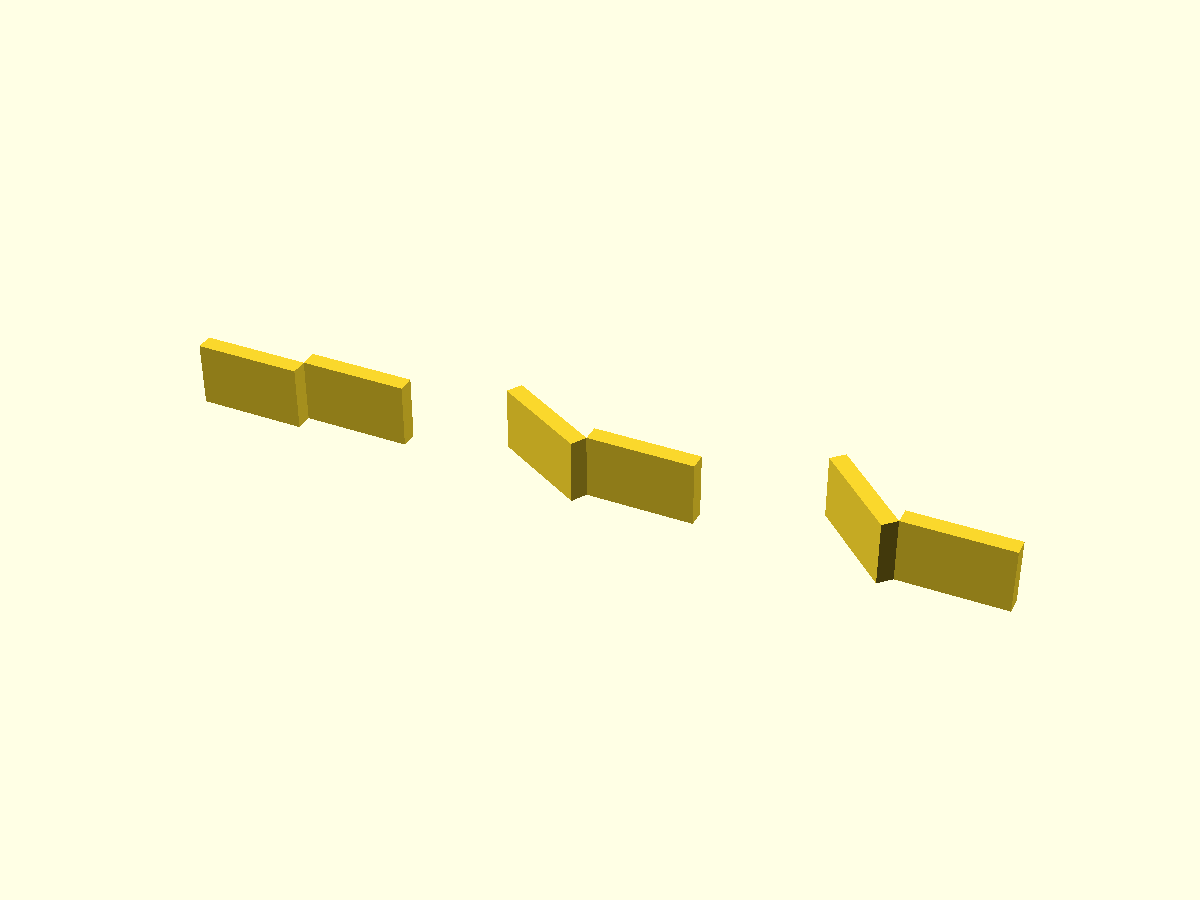
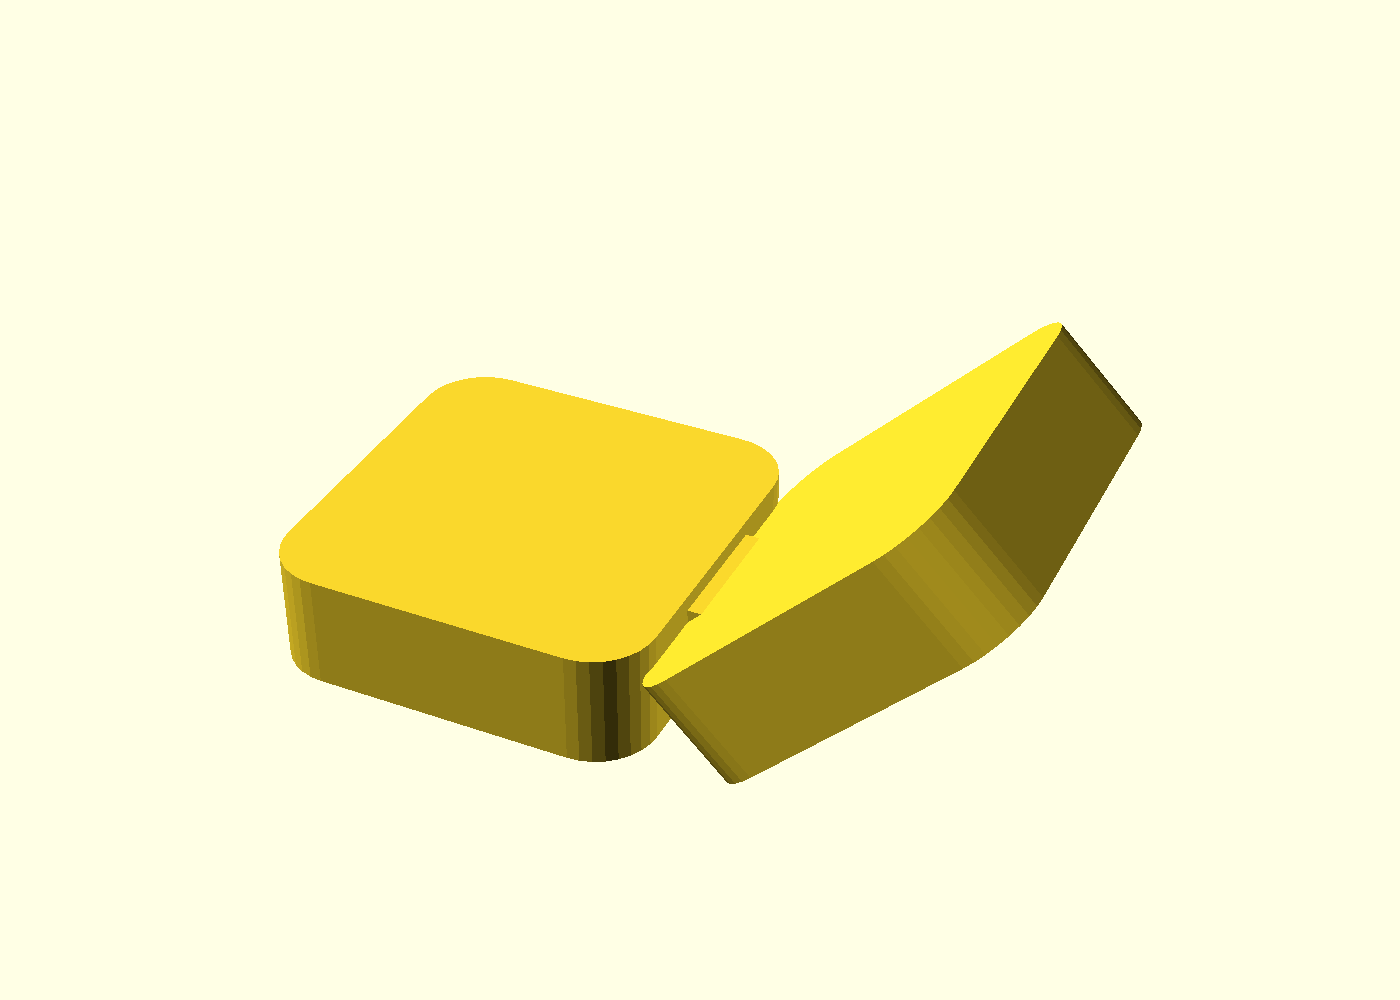
Add joint module and support for snap-fit connectors in plates

Changed region(s): [[0.1542, 0.3111, 0.8633, 0.7778]]

diff --git a/atomic_plates/README.md b/atomic_plates/README.md
@@ -24,4 +24,31 @@ Parametric OpenSCAD design for open-bottom, closed-top rectangular test boxes wi
 - 10 x 10 x 1.5 cm (commented out)
 - 20 x 20 x 1.5 cm (commented out)
 
+## Joints (`joint.scad`)
+
+A snap-fit connector that joins two plates along their vertical walls, holding
+them at a fixed angle. Each joint is one printed part with a flange + barbed
+tab on each end; the tab pushes through a slot cut in the wall (see
+`wall_slot_cut` / `joint_slot_w` / `joint_slot_h` in `plates.scad`) and the
+barb springs out behind it to lock in place — no glue needed.
+
+Three variants are provided, set by `fold_deg`:
+
+- `0°` — a straight coupler; the joined plates stay flat/coplanar.
+- `30°` and `45°` — the bridge between the two tabs is bent, so once both
+  tabs are snapped in, the plates end up open at that angle to each other.
+
+`joint.scad` has two output modes (`render_mode` at the bottom of the file):
+
+- `"print"` (default) — lays out all three joints side by side, ready to slice.
+- `"demo"` — renders one plate pair + a joint at `demo_fold` degrees, useful
+  for checking alignment before printing.
+
+### Tuning the fit
+
+Snap-fit clearances are printer-dependent. If a tab is too tight/loose,
+adjust `fit_clear` (per-side clearance) and `barb_h` (retention overhang) in
+`joint.scad` and re-print. `wall`, `slot_w`, and `slot_h` in `joint.scad` must
+match `wall`, `joint_slot_w`, and `joint_slot_h` in `plates.scad`.
+
 Uncomment entries in `sizes` to generate the additional boxes.
